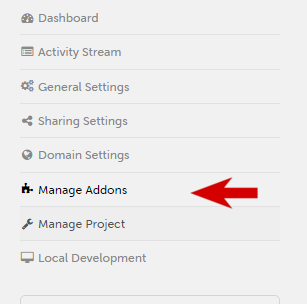
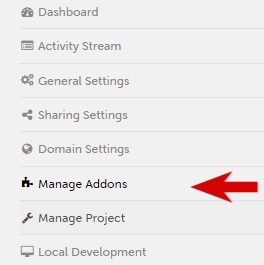
Added content and fixed various things

diff --git a/docs/tutorial/addons.rst b/docs/tutorial/addons.rst
@@ -19,7 +19,9 @@ In the Dashboard for your site, select *Manage Addons* . You'll see that you hav
 installed already, with others available for installation.
 
 .. image:: images/manage-addons.png
-   :alt: manage addons
+   :alt: the manage addons
+   :align: right
+   :width: 30%
 
 We'll install Aldryn Events, an application for publishing calendars of events on your site.
 
@@ -27,26 +29,27 @@ Find Aldryn Events in the list, and hit **Install for Free**. Don't worry about 
 configuration options in the dialoge that appears next, just select **Install Aldryn Events**.
 
 .. image:: images/install-events.png
-   :alt: events button
+   :alt: the install event button
 
 A few seconds later, you'll be returned to the list of Addons, now showing which version of Aldryn
 Events that you have installed.
 
 .. image:: images/installed-events.png
-   :alt: events installed
+   :alt: showing installed events
 
 Installing an Addon is a change that requires redeployment of your site. In the Dashboard, hit the
 **Apply changes and test** button.
 
 .. image:: images/apply-changes.png
-   :alt: apply changes
+   :alt: the apply changes button
+   :width: 50%
 
 Once the site has redeployed, the new Events application will be
 available - you can see it in the admin, as you did with the Filer.
 
 .. image:: images/events-admin.png
-   :alt: apply changes
-
+   :alt: admin page showing aldryn
+   :width: 50%
 
 =============================
 Create an Events landing page
@@ -64,7 +67,8 @@ Create a django CMS page to hook the Aldryn Events application into, using *Page
 In your new page's *Advanced settings*, set its ``Application`` to *Events* and **Save** again.
 
 .. image:: images/apphook-setup.png
-   :alt: apphook setup
+   :alt: the apphook setup
+   :width: 50%
 
 This page is now hooked into to the Aldryn Events application.
 
@@ -77,7 +81,7 @@ When you're on the *Events* page, you'll see that the django CMS *Toolbar* now c
 *Events*. Select *Add Event...* from this menu.
 
 .. image:: images/add-event.png
-   :alt: apphook setup
+   :alt: the add event item
 
 Provide some basic details:
 
@@ -92,10 +96,12 @@ It now exists in the database and will be listed on the *Events* page. Notice th
 also indicates that something’s on.
 
 .. image:: images/event-sample.png
-   :alt: event-sample
+   :alt: an aldryn event-sample
 
 .. image:: images/calender.png
-   :alt: calender
+   :alt: the aldryn event calender
+   :align: center
+   :width: 50%
 
 You can use the standard django CMS placeholder interface to add some more text content to your
 events, as you did in :ref:`structure-and-content` earlier.
@@ -113,14 +119,15 @@ placeholder, and scroll down through the list of available plugin options until 
 *Event* plugins. Choose *Upcoming or past events*.
 
 .. image:: images/events-plugin.png
-   :alt: events-plugin
+   :alt: the event-plugins
 
 Check the plugin's settings, and **Save**.
 
 The plugin will be inserted at the bottom of the list of plugins in the *CONTENT* placeholder
 block, but you can drag it to any position you like (even to another placeholder block).
 
-.. todo:: an image to show plugin being dragged (or maybe two images, before and after)
+.. image:: images/plugin-drag-and-drop.png
+   :alt: drag and drop of the event plugin
 
 When you return to *Content* mode, you'll see that on the *Home* page the plugin now automatically
 lists the event you created.

diff --git a/docs/tutorial/customisation.rst b/docs/tutorial/customisation.rst
@@ -15,7 +15,10 @@ fingertips for easy management, through the **Aldryn Desktop** client applicatio
 Install the Aldryn Desktop client application
 =============================================
 
-.. todo:: an image to show link from Dashboard to download app
+.. image:: images/download_desktop.png
+   :alt: the download desktop button
+   :align: right
+   :width: 25%
 
 Download the Aldryn Desktop client, and follow the instructions to install it.
 
@@ -28,9 +31,13 @@ Once the application is running you can login using your email address and passw
 the `access token <https://control.aldryn.com/account/desktop-app/access-token/>`_ from the Aldryn
 Control Panel and paste it into the field in the client.
 
-.. todo:: an image to show access code in Dashboard
+.. image:: images/access-token.png
+   :alt: the access token
 
-.. todo:: an image to show access code being pasted into the client
+.. image:: images/access-token-client.png
+   :alt: the access token pasted in the client
+   :align: center
+      :width: 50%
 
 Select a workspace folder (a folder on your computer where you'd like to keep all the Aldryn
 files), then select **Continue**.
@@ -39,34 +46,43 @@ At this point you can take the Aldryn Desktop application tour if you wish, thou
 probably find most of its interface and functionality quite familiar, as it's very similar to that of the Control
 Panel.
 
-.. todo:: show tour icon
+.. image:: images/tour_client.png
+   :alt: the tour button of the client
+
+.. image:: images/list-project.png
+   :alt: The project list sidebar
+   :align: right
+   :width: 40%
 
 Select the project you created in the Control Panel earlier.
-
-.. todo:: show the user's Aldryn project in the list on the left
 
 Hit **Auto-sync this project**. A few moments later you'll find all your project's files available
 on your local drive.
 
-.. todo:: an image to show Auto-sync this project
-
+.. image:: images/auto-sync.png
+   :alt: the auto-sync button
 
 ========================
 Edit a file with locally
 ========================
 
-.. todo:: an image showing the link to open site files locally
+.. image:: images/path-link.png
+   :alt: showing location of the path
+   :width: 30%
 
 Open the site files.
 
-.. todo:: an image for the list of files in Finder
+.. image:: images/finder_files.png
+   :alt: showing files in the finder
+   :width: 50%
 
 These are all the frontend - HTML, CSS and JavaScript - files for your site, and can be edited
 using your preferred plain-text editor.
 
-Find and open the file ``private/SASS/settings/_bootstrap.scss``.
+Find and open the file ``private/SASS/settings/_bootstrap.scss``. bootstrap-file-path.png
 
-.. todo:: an image for the file in the file list
+.. image:: images/bootstrap-file-path.png
+   :alt: showing path of the _bootstrap.scss file
 
 In the file, find the line::
 
@@ -91,7 +107,10 @@ How this works
 When you save a change to any of the local files, Aldryn Desktop recognises this, and sends the
 changes to your Aldryn site, along with a signal that files have changed.
 
-.. todo:: an image for Live reload is ON in the toolbar
+.. image:: images/live_reload.png
+   :alt: the live reload button
+   :align: right
+   :width: 50%
 
 You'll notice *Live reload is *ON* in the Toolbar of your website, which means that your site will
 recompile the files, and reload the page to display the changes,
